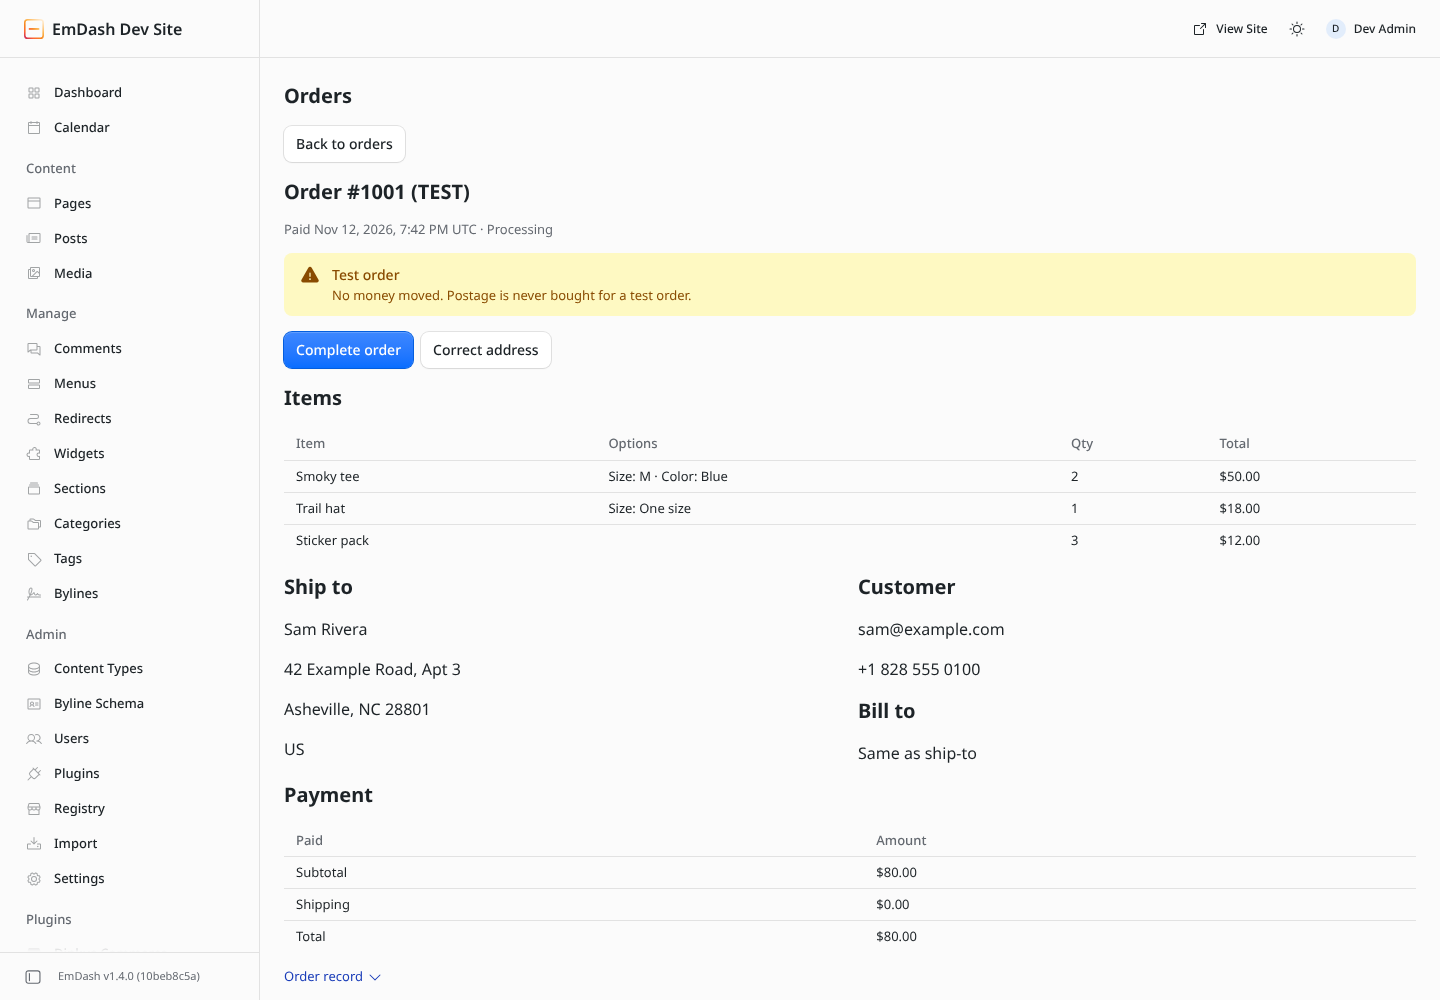
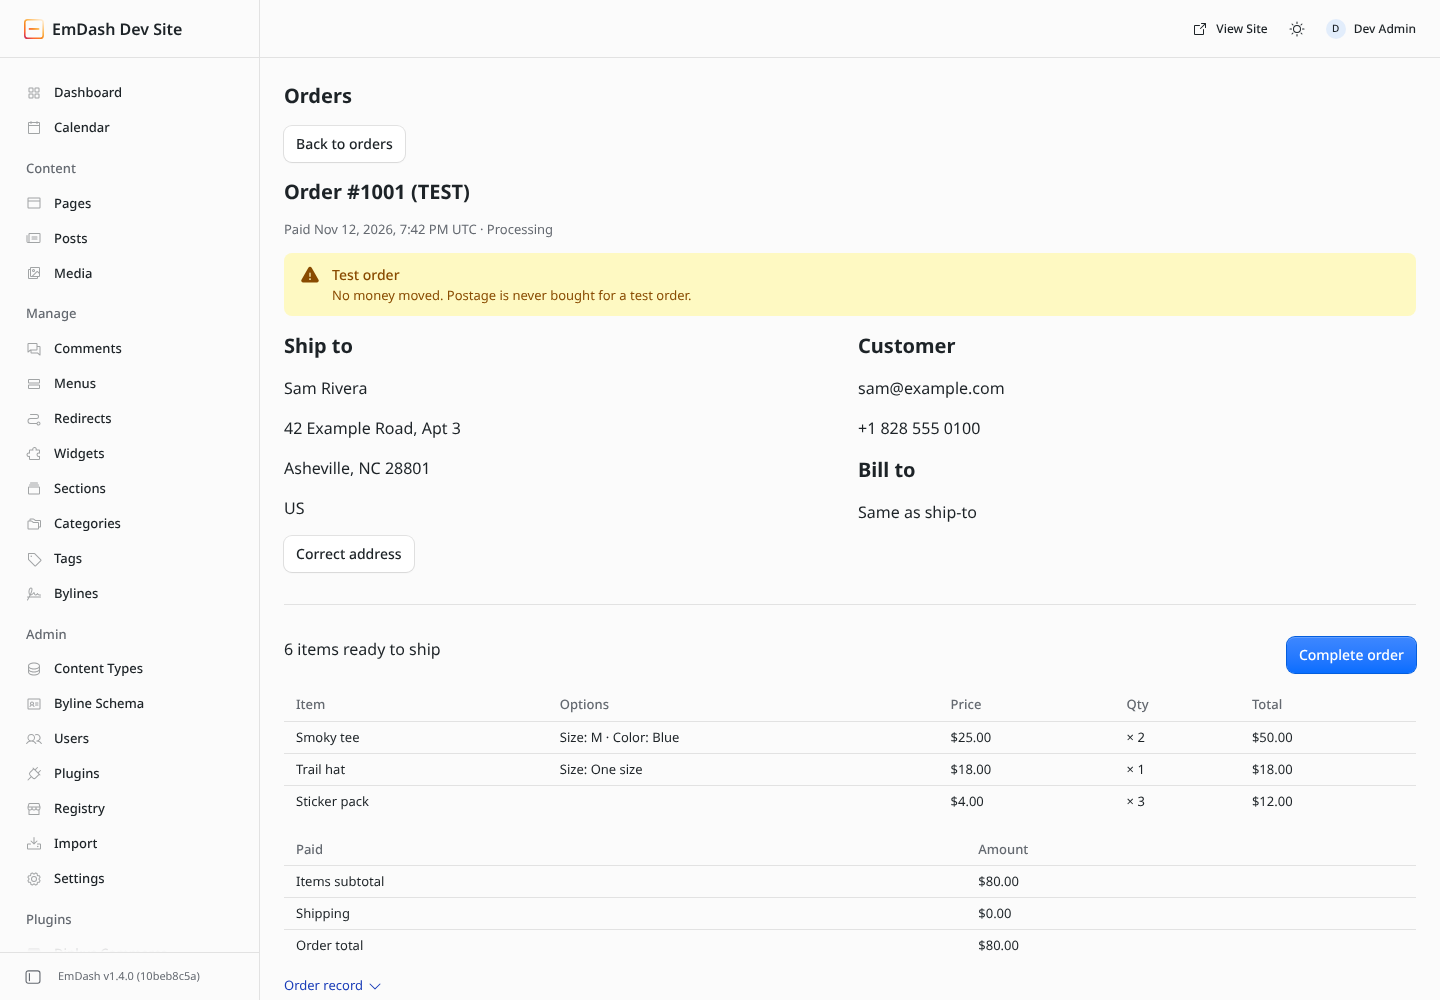
Put ship-to, customer and bill-to at the top of the order page
Following Ronald's WooCommerce order screen: addresses and contact come
first, with Correct address under Ship to; an "N items ready to ship"
line carries Create shipping label or Complete order; the items table
gains a Price column. Two columns rather than three, since EmDash's
columns never stack and three overlap on a phone.

Claude-Session: https://claude.ai/code/session_01Vn8pkBoqqN6j5hMWV4EX9U

diff --git a/src/features/orders/admin/view.ts b/src/features/orders/admin/view.ts
@@ -89,38 +89,43 @@ export function ordersView(input: OrdersInspection, selectedOrderId?: string, la
     if (matches.length !== 1) return { blocks: [...blocks, unavailable('Order unavailable', 'The selected order could not be identified.')] };
     const record = matches[0], order = record.paidOrder, done = record.completed, contact = order.contactSnapshot?.contact, billing = billingOf(record), ship = deliveryOf(record);
     const id = encodeURIComponent(order.orderId), version = (record.revision ?? 1) + ':' + id, pricing = order.pricing;
-    // Packing first: what to send and where, then the action that finishes it.
-    blocks.push({ type: 'header', text: 'Order ' + label(record) }, { type: 'context', text: [order.paidAt ? 'Paid ' + when(order.paidAt) : 'Paid', status(record),
-      ...(done ? [when(done.at)] : [])].join(' · ') },
-    ...(order.mode === 'live' ? [] : [{ type: 'banner', variant: 'alert', title: 'Test order', description: 'No money moved. Postage is never bought for a test order.' } as Block]),
-    // A Completed order's address is locked; moving it back to Processing unlocks it.
+    // Who and where first (like WooCommerce's order screen), then what to pack and the action that finishes it.
+    const shipToColumn: Block[] = [{ type: 'header', text: 'Ship to' }, ...(ship ? lines(ship) : [text('No ship-to address')]),
+      ...(record.delivery ? [{ type: 'context', text: 'Corrected after checkout' } as Block] : []),
+      // A Completed order's address is locked; moving it back to Processing unlocks it.
+      ...(ship && !done ? [action('Correct address', 'orders.address:' + id)] : [])];
+    const count = order.lines.reduce((sum, line) => sum + line.quantity, 0);
     // A Processing order with an address links to Ship's label page when the store has Ship.
-    { type: 'actions', elements: done
-      ? [{ type: 'button', label: 'Move back to Processing', action_id: 'orders.reopen:' + version,
-        confirm: { title: 'Move back to Processing?', text: 'Its carrier, tracking number and completion time are cleared.', confirm: 'Move back', deny: 'Cancel' } }]
-      : [...(labelPage && ship ? [{ type: 'link' as const, label: 'Create shipping label', target: { kind: 'external' as const, url: labelPage }, appearance: 'primary' as const }] : []),
-        { type: 'button', label: 'Complete order', action_id: 'orders.finish:' + id, ...(labelPage && ship ? {} : { style: 'primary' as const }) },
-        ...(ship ? [{ type: 'button' as const, label: 'Correct address', action_id: 'orders.address:' + id }] : [])] });
+    const label_ = labelPage && ship && !done ? { type: 'link' as const, label: 'Create shipping label', target: { kind: 'external' as const, url: labelPage }, appearance: 'primary' as const } : undefined;
+    const finish = { type: 'button' as const, label: 'Complete order', action_id: 'orders.finish:' + id, ...(label_ ? {} : { style: 'primary' as const }) };
+    blocks.push({ type: 'header', text: 'Order ' + label(record) }, { type: 'context', text: [order.paidAt ? 'Paid ' + when(order.paidAt) : 'Paid', status(record)].join(' · ') },
+    ...(order.mode === 'live' ? [] : [{ type: 'banner', variant: 'alert', title: 'Test order', description: 'No money moved. Postage is never bought for a test order.' } as Block]),
+    // Two columns, not three: EmDash's columns never stack, and three crush addresses on a phone.
+    { type: 'columns', columns: [shipToColumn,
+      [{ type: 'header', text: 'Customer' }, text(contact?.email ?? 'No email'), text(contact?.phone ?? 'No phone'),
+        // Orders paid before billing was recorded have none.
+        { type: 'header', text: 'Bill to' }, ...(billingMatchesDelivery(record) ? [text('Same as ship-to')] : billing ? lines(billing) : [text(notRecorded)])]] },
+    { type: 'divider' },
+    done
+      ? { type: 'section', text: ['Shipped ' + when(done.at), done.carrier, done.tracking].filter(Boolean).join(' · '),
+        accessory: { type: 'button', label: 'Move back to Processing', action_id: 'orders.reopen:' + version,
+          confirm: { title: 'Move back to Processing?', text: 'Its carrier, tracking number and completion time are cleared.', confirm: 'Move back', deny: 'Cancel' } } }
+      : { type: 'section', text: count + (count === 1 ? ' item' : ' items') + ' ready to ship', accessory: label_ ?? finish },
+    ...(label_ ? [{ type: 'actions', elements: [finish] } as Block] : []));
     // Pack asks Inventory to pack the tickets reserve minted; it never marks the order packed here.
     // Reserve mints tickets only through an Inventory provider, which the Registry build never has.
     if (!REGISTRY_BUILD && order.ticketIds?.length) blocks.push(action('Pack', 'orders.pack:' + id));
-    blocks.push({ type: 'header', text: 'Items' }, { type: 'table', page_action_id: 'orders.items', columns: [
-      { key: 'item', label: 'Item' }, { key: 'options', label: 'Options' }, { key: 'quantity', label: 'Qty' }, { key: 'total', label: 'Total' }],
-    rows: order.lines.map(line => ({ item: line.name, quantity: String(line.quantity),
+    blocks.push({ type: 'table', page_action_id: 'orders.items', columns: [
+      { key: 'item', label: 'Item' }, { key: 'options', label: 'Options' }, { key: 'price', label: 'Price' }, { key: 'quantity', label: 'Qty' }, { key: 'total', label: 'Total' }],
+    rows: order.lines.map(line => ({ item: line.name, price: amount(line.unitPrice), quantity: '× ' + line.quantity,
       options: order.variantSelections?.find(selection => selection.catalogItemId === line.catalogItemId)?.selections
         .map(choice => choice.optionLabel + ': ' + choice.valueLabel).join(' · ') ?? '',
-      total: amount(BigInt(normalizeMoney(line.unitPrice).minor) * BigInt(line.quantity)) })) } as Block);
-    const payments: Block[] = [{ type: 'header', text: 'Payment' }, { type: 'table', page_action_id: 'orders.items', columns: [{ key: 'name', label: payment(order) }, { key: 'value', label: 'Amount' }],
-      rows: [...(pricing ? [['Subtotal', amount(pricing.merchandiseSubtotal)],
+      total: amount(BigInt(normalizeMoney(line.unitPrice).minor) * BigInt(line.quantity)) })) } as Block,
+    { type: 'table', page_action_id: 'orders.items', columns: [{ key: 'name', label: payment(order) }, { key: 'value', label: 'Amount' }],
+      rows: [...(pricing ? [['Items subtotal', amount(pricing.merchandiseSubtotal)],
         ...(pricing.coupon ? [['Coupon ' + pricing.coupon.code, '−' + amount(pricing.couponDiscount)]] : []),
-        ['Shipping', amount(pricing.shipping.charge)]] : []), ['Total', amount(order.total)]].map(([name, value]) => ({ name, value })) } as Block];
-    const left: Block[] = [{ type: 'header', text: 'Ship to' }, ...(ship ? lines(ship) : [text('No ship-to address')]),
-      ...(record.delivery ? [{ type: 'context', text: 'Corrected after checkout' } as Block] : []),
-      ...(done ? [{ type: 'header', text: 'Shipped' } as Block, text(done.carrier ?? 'Carrier not recorded'), text(done.tracking ?? 'No tracking number')] : [])];
-    const right: Block[] = [{ type: 'header', text: 'Customer' }, text(contact?.email ?? 'No email'), text(contact?.phone ?? 'No phone'),
-      // Orders paid before billing was recorded have none.
-      { type: 'header', text: 'Bill to' }, ...(billingMatchesDelivery(record) ? [text('Same as ship-to')] : billing ? lines(billing) : [text(notRecorded)])];
-    blocks.push({ type: 'columns', columns: [left, right] }, ...payments, { type: 'accordion', label: 'Order record', blocks: [
+        ['Shipping', amount(pricing.shipping.charge)]] : []), ['Order total', amount(order.total)]].map(([name, value]) => ({ name, value })) } as Block,
+    { type: 'accordion', label: 'Order record', blocks: [
       text('Order ID: ' + order.orderId), text('Version: ' + (record.revision ?? 1)), text('Receipt: ' + order.receiptId),
       text('Checkout attempt: ' + order.attemptId), text('Provider payment: ' + (order.paymentId ?? notRecorded)),
       ...order.lines.map(line => text(line.name + ': ' + line.catalogItemId))] } as Block);

diff --git a/proof/order-page-for-packing-20261113/PROOF.md b/proof/order-page-for-packing-20261113/PROOF.md
@@ -1,6 +1,6 @@
 # Order page laid out for packing
 
-PR #269 rearranges the Orders detail page for packing: the order number, paid time and status, a Test order banner and the actions come first. Below them sit an Items table (frozen choices, quantity, line total), Ship to beside Customer and Bill to as parcel lines, a Payment table, and an Order record fold with the IDs. Storage, the order record, permissions, actions and the agent `orders` route are unchanged.
+PR #269 rearranges the Orders detail page the way WooCommerce's order screen reads. First come the order number, paid time and status, and a Test order banner. Then Ship to (with Correct address) sits beside Customer and Bill to, as parcel lines. Below that, an "N items ready to ship" line carries the main action (Create shipping label or Complete order), followed by an Items table (frozen choices, price, quantity, line total), a payment table, and an Order record fold with the IDs. Storage, the order record, permissions, actions and the agent `orders` route are unchanged.
 
 ## Captures
 
@@ -9,10 +9,10 @@ All captures are unedited Playwright full-page screenshots of the compiled Regis
 | File | Source | Shows |
 | --- | --- | --- |
 | `before-main-1440.png` | main `37490ca` | The order as Label: value rows, 1440px. |
-| `after-1440.png` | `6db7661` | Header and status line, Test order banner, actions, Items table, Ship to beside Customer and Bill to, Payment table, Order record fold, 1440px. |
+| `after-1440.png` | this PR | Header and status line, Test order banner, Ship to beside Customer and Bill to, the ready-to-ship line with Complete order, Items and payment tables, Order record fold, 1440px. |
 | `before-main-390.png` | main `37490ca` | The same order at 390px. |
-| `after-390.png` | `6db7661` | 390px: tables full width, address and contact in two columns, no page overflow. |
-| `after-completed-1440.png` | `6db7661` | A Completed order with a corrected address, the Shipped block (carrier, tracking) and the Order record fold open (`orders-completed` capture of `tests/sandbox/orders-blocks.spec.mjs`). |
+| `after-390.png` | this PR | 390px: addresses and contact in two columns, tables full width, no page overflow. |
+| `after-completed-1440.png` | this PR | A Completed order with a corrected address, the Shipped line (date, carrier, tracking) with Move back to Processing, and the Order record fold open (`orders-completed` capture of `tests/sandbox/orders-blocks.spec.mjs`). |
 
 The before and after pairs come from a one-off spec in the same harness. It stores the same synthetic order (three lines, two with size or colour choices, free shipping, one address used for both shipping and billing) on each build and opens it at 1440px and 390px.
 
@@ -21,6 +21,6 @@ The before and after pairs come from a one-off spec in the same harness. It stor
 - `npm run typecheck` and `npm run audit:repo`: clean.
 - `npm run test:unit`: 851 pass. `node --test tests/integration/*.test.mjs`: 111 pass.
 - `tests/sandbox/orders-blocks.spec.mjs`, both tests, pass against the installed artifact.
-- Registry backend: 130,006 of 131,072 bytes, 1,066 bytes of headroom.
+- Registry backend: 130,066 of 131,072 bytes, 1,006 bytes of headroom.
 
-EmDash 1.4 `columns` blocks never stack on narrow screens, so tables stay full width and only short address and contact text uses columns.
+EmDash 1.4 `columns` blocks never stack on narrow screens. Three columns (WooCommerce's General, Billing, Shipping) overlap at 390px, so the page uses two: Ship to, then Customer and Bill to. Tables stay full width.

diff --git a/docs/website/reference/commerce.md b/docs/website/reference/commerce.md
@@ -27,7 +27,7 @@ The store admin uses EmDash's built-in Block Kit screens only. Commerce adds a *
 
 | Page | What it does |
 | --- | --- |
-| **Orders** | Lists orders. **Inspect #N** opens one, laid out for packing: when it was paid and its status, the order's actions, then an **Items** table with each item's recorded variant choices (such as Size: M; later option renames do not change them), quantity and line total. **Ship to** sits beside **Customer** (email and phone) and **Bill to**, then **Payment** shows subtotal, coupon, shipping and total. Order ID, version, receipt, checkout attempt, provider payment and catalog IDs are in the **Order record** fold. Times show in UTC. |
+| **Orders** | Lists orders. **Inspect #N** opens one: when it was paid and its status, then **Ship to** (with **Correct address**) beside **Customer** (email and phone) and **Bill to**. Below them, a line such as "3 items ready to ship" carries **Create shipping label** (when the store has Ship) or **Complete order**. Then comes the items table, with each item's recorded variant choices (such as Size: M; later option renames do not change them), price, quantity and line total, and then items subtotal, coupon, shipping and order total. Order ID, version, receipt, checkout attempt, provider payment and catalog IDs are in the **Order record** fold. Times show in UTC. |
 | **Commerce settings** | Connect, checkout settings, and catalog choices (hide out-of-stock products, a placeholder image for products without one). |
 
 There is no separate Commerce Products page. Products are managed on the site's own product pages, described next.
@@ -194,7 +194,7 @@ Coupon codes are refused at checkout on Registry stores in this release.
 
 ## Completing and correcting an order
 
-Open **Orders**, then **Inspect #N**. Addresses read as parcel lines and long IDs, contact details and item choices wrap rather than being cut off. **Create shipping label** (when the store has Ship) or **Complete order** is the first button. New orders are **Processing**;
+Open **Orders**, then **Inspect #N**. Addresses read as parcel lines and long IDs, contact details and item choices wrap rather than being cut off. **Create shipping label** (when the store has Ship) or **Complete order** sits on the ready-to-ship line under the addresses. New orders are **Processing**;
 **Completed** means shipped, not delivered. Test orders stay in the normal list
 and are marked **TEST**; do not use them for real fulfillment or postage.
 

diff --git a/.changeset/order-page-for-packing.md b/.changeset/order-page-for-packing.md
@@ -2,4 +2,4 @@
 "@dinkuskit/commerce": minor
 ---
 
-Lay out the Orders detail page for packing, like the big platforms' order pages: the order number, paid time and status, a Test order warning, and the shipping actions come first; then an Items table with each item's frozen choices, quantity and line total; Ship to beside Customer and Bill to as parcel lines; and a Payment table with subtotal, coupon, shipping and total. Order ID, version, receipt, checkout attempt, provider payment and catalog IDs move into an Order record fold. Amounts on the Orders pages read as dollars (`$80.00`), payment reads Paid or Nothing to pay, and times read in UTC. Block Kit only; the agent orders API is unchanged.
+Lay out the Orders detail page like WooCommerce's and Shopify's order screens. The order number, paid time and status, and a Test order warning come first. Then Ship to (with Correct address) sits beside Customer and Bill to, as parcel lines. Below that, an "N items ready to ship" line carries Create shipping label or Complete order, followed by an items table with frozen choices, price, quantity and line total, the payment summary (items subtotal, coupon, shipping, order total), and an Order record fold with the IDs. Amounts on the Orders pages read as dollars (`$80.00`), payment reads Paid or Nothing to pay, and times read in UTC. Block Kit only; the agent orders API is unchanged.
